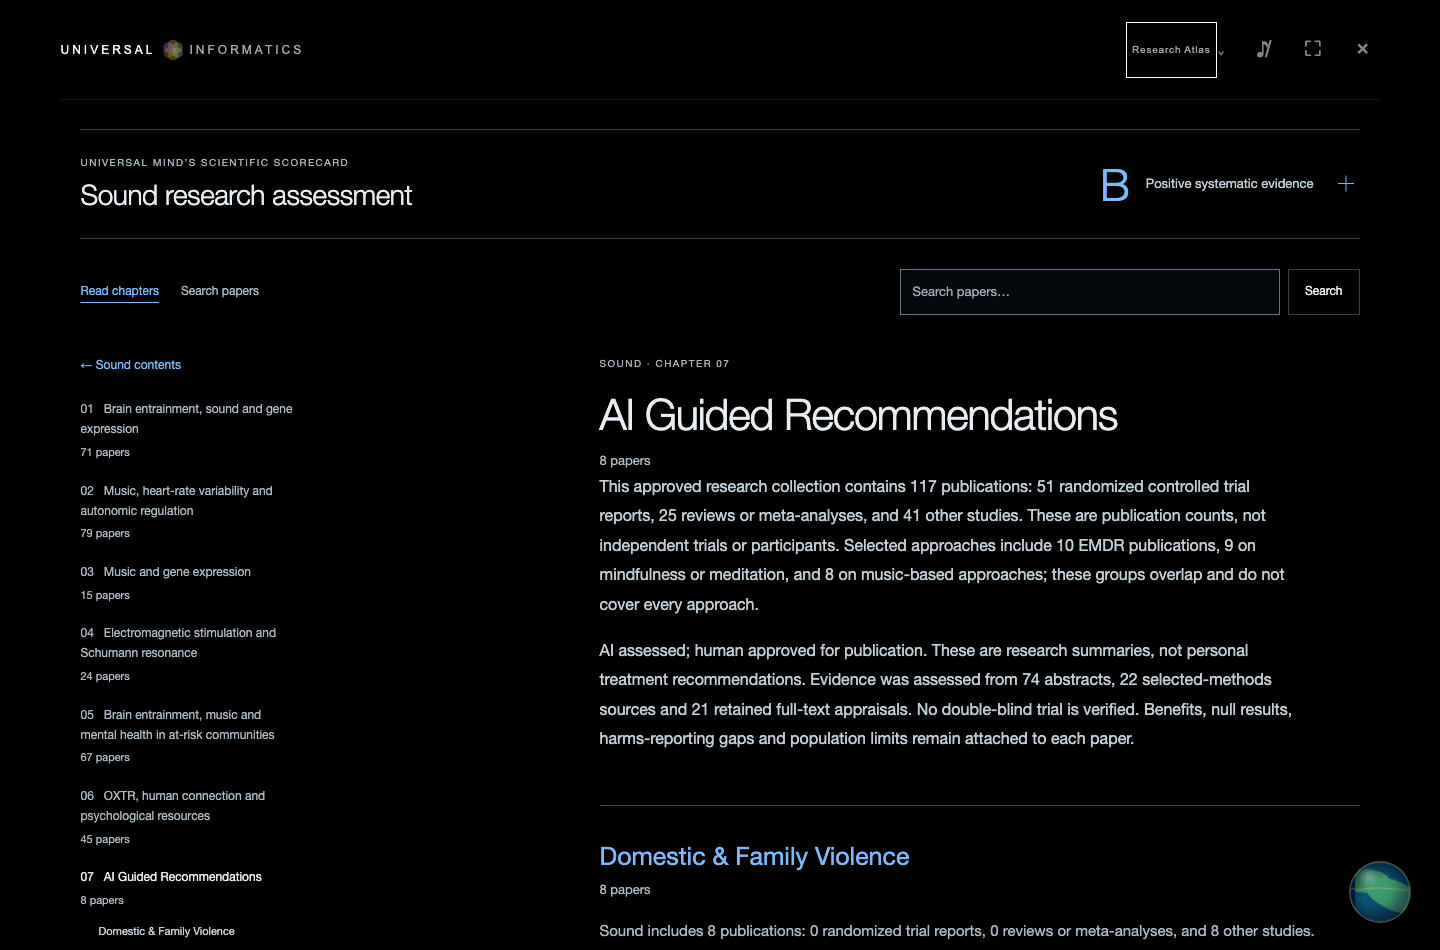
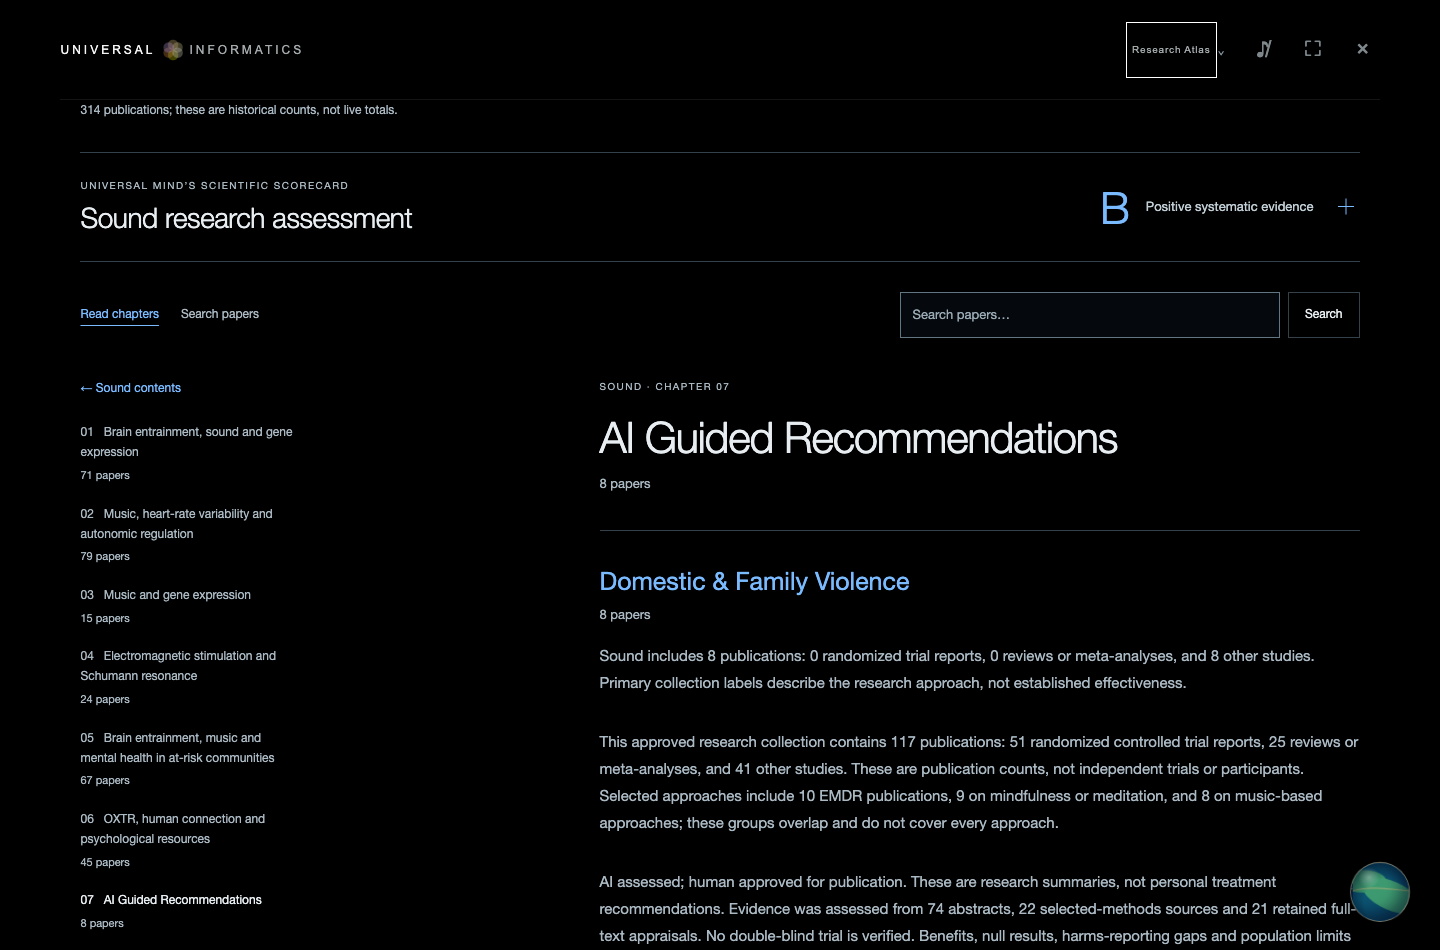
Keep research overview visible on direct domestic violence chapter links

diff --git a/Informatics/library.js b/Informatics/library.js
@@ -181,10 +181,11 @@
     const chapter = edition.chapters.find(c => c.number === chapterNumber);
     if (!chapter) { chapterNumber = 0; return renderContents(); }
     const rail = `<aside class="contents-rail" aria-label="${esc(collectionTitle(collection))} contents"><a class="contents-home" data-chapter="0" href="${esc(route())}">← ${esc(collectionTitle(collection))} contents</a><ol>${edition.chapters.map(c => `<li><a data-chapter="${c.number}" href="${esc(route(c.number))}" ${c.number === chapterNumber ? 'aria-current="page"' : ''}>${String(c.number).padStart(2,'0')} &nbsp; ${esc(c.title)}<span class="paper-count">${paperCount(c.topics.flatMap(t=>t.papers))}</span></a>${c.number === chapterNumber ? `<ol>${c.topics.map(t => `<li><a data-chapter="${c.number}" data-topic="${t.id}" href="${esc(route(c.number,t.id))}">${esc(t.title)}</a></li>`).join('')}</ol>` : ''}</li>`).join('')}</ol></aside>`;
+    const overviewAtTopic = chapter.topics.some(topic=>topic.id==='domestic-family-violence');
     const chapterIndex = edition.chapters.indexOf(chapter);
     const previous = edition.chapters[chapterIndex - 1];
     const next = edition.chapters[chapterIndex + 1];
-    return `<div class="narrative-layout">${rail}<div class="chapter-reader"><div class="chapter-opening"><p class="eyebrow">${esc(collectionTitle(collection))} · CHAPTER ${String(chapter.number).padStart(2,'0')}</p><h2>${esc(chapter.title)}</h2><p class="paper-count">${paperCount(chapter.topics.flatMap(t=>t.papers))}</p>${(chapter.overview || []).map(p=>`<p class="chapter-overview">${esc(p)}</p>`).join('')}${chapter.sourceRegister ? '<p><a href="#chapter-source-register">Browse all 240 bibliography entries and downloads ↓</a></p>' : ''}</div>${chapter.topics.map(topic => `<section class="topic" id="topic-${topic.id}"><div class="topic-heading"><h3>${esc(topic.title)}</h3>${crosses(topic.trustScore,true)}</div><p class="paper-count">${paperCount(topic.papers)}${topicScoreStatus(topic)}</p>${topic.description ? `<p class="topic-description">${esc(topic.description)}</p>` : ''}${(topic.paragraphs || []).map(p=>`<p class="topic-description">${esc(p)}</p>`).join('')}${topic.id==='imaging-evolution' ? timelineMarkup(chapter) : ''}${topic.papers.map(p => paperMarkup(p)).join('')}</section>`).join('')}${sourceRegisterMarkup(chapter)}<nav class="chapter-pagination" aria-label="Read another chapter">${previous ? `<a data-chapter="${previous.number}" href="${esc(route(previous.number))}">← ${esc(previous.title)}</a>` : `<a data-chapter="0" href="${esc(route())}">← Contents</a>`}${next ? `<a data-chapter="${next.number}" href="${esc(route(next.number))}">${esc(next.title)} →</a>` : `<a data-chapter="0" href="${esc(route())}">Back to contents ↑</a>`}</nav></div></div>`;
+    return `<div class="narrative-layout">${rail}<div class="chapter-reader"><div class="chapter-opening"><p class="eyebrow">${esc(collectionTitle(collection))} · CHAPTER ${String(chapter.number).padStart(2,'0')}</p><h2>${esc(chapter.title)}</h2><p class="paper-count">${paperCount(chapter.topics.flatMap(t=>t.papers))}</p>${(overviewAtTopic ? [] : chapter.overview || []).map(p=>`<p class="chapter-overview">${esc(p)}</p>`).join('')}${chapter.sourceRegister ? '<p><a href="#chapter-source-register">Browse all 240 bibliography entries and downloads ↓</a></p>' : ''}</div>${chapter.topics.map(topic => `<section class="topic" id="topic-${topic.id}"><div class="topic-heading"><h3>${esc(topic.title)}</h3>${crosses(topic.trustScore,true)}</div><p class="paper-count">${paperCount(topic.papers)}${topicScoreStatus(topic)}</p>${topic.description ? `<p class="topic-description">${esc(topic.description)}</p>` : ''}${[...(topic.id==='domestic-family-violence' ? chapter.overview || [] : []),...(topic.paragraphs || [])].map(p=>`<p class="topic-description">${esc(p)}</p>`).join('')}${topic.id==='imaging-evolution' ? timelineMarkup(chapter) : ''}${topic.papers.map(p => paperMarkup(p)).join('')}</section>`).join('')}${sourceRegisterMarkup(chapter)}<nav class="chapter-pagination" aria-label="Read another chapter">${previous ? `<a data-chapter="${previous.number}" href="${esc(route(previous.number))}">← ${esc(previous.title)}</a>` : `<a data-chapter="0" href="${esc(route())}">← Contents</a>`}${next ? `<a data-chapter="${next.number}" href="${esc(route(next.number))}">${esc(next.title)} →</a>` : `<a data-chapter="0" href="${esc(route())}">Back to contents ↑</a>`}</nav></div></div>`;
   }
   function filter() {
     const q = normalize($('#query').value).split(' ').filter(Boolean);
